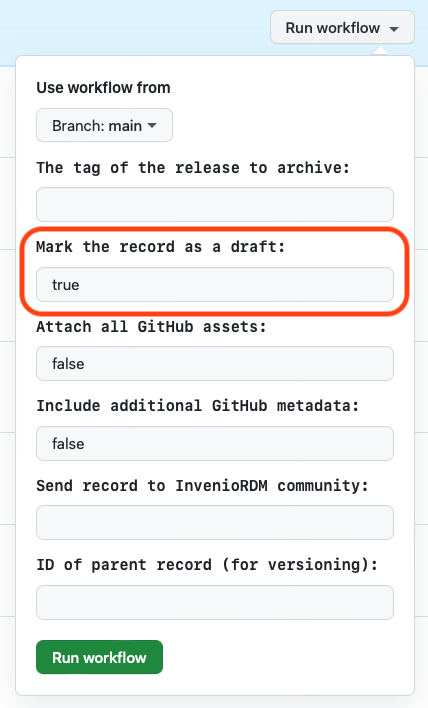
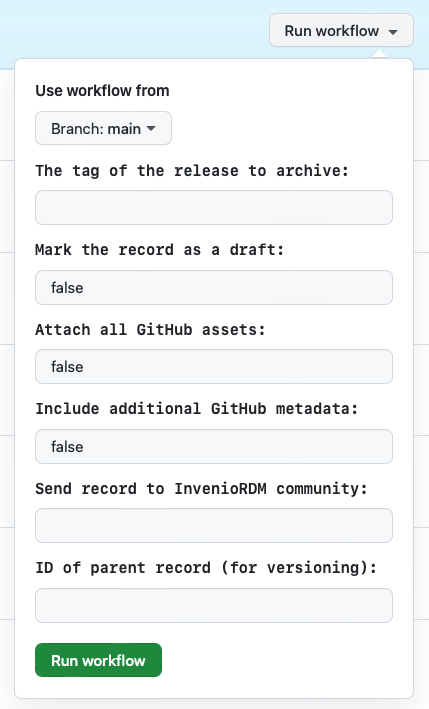
docs: finish the GHA section

Changed region(s): [[0.0, 0.0, 1.0, 0.9944], [0.3645, 0.7768, 0.8808, 0.839], [0.0911, 0.7768, 0.3341, 0.839]]

diff --git a/docs/gha-usage.md b/docs/gha-usage.md
@@ -1,1 +1,91 @@
 # Usage (GitHub Action)
+
+After creating a GitHub Action workflow as described in [the installation instructions](installation.md#iga-as-a-github-action) (making sure to set the value of `INVENIO_SERVER` in the `.yml` file) and storing your InvenioRDM token as [a GitHub "secret" in the repository](quick-start.md#configuring-a-github-action), the workflow should run automatically the next time you make a release. The IGA workflow can also be run manually; in addition, the trigger condition(s) and some IGA options can be set by editing the workflow definition `.yml` file.
+
+## Manual invocation
+
+You can run the IGA GitHub Action workflow manually in two ways: from the web page of your GitHub repository, and using GitHub's `gh` command line tool.
+
+### Manual workflow invocation on GitHub
+
+1. Go to the _Actions_ tab in your repository and click on the name of the workflow in the sidebar on the left<figure><img src="_static/media/github-run-workflow.png" width="70%"></figure>
+2. Click the <kbd>Run workflow</kbd> button shown above in the right-hand side of the blue strip.
+3. A form will appear; in this form, you can set the IGA input parameters, including the tag of the release to send to InvenioRDM, whether to make the release a draft, and more. All these opotions except the first (the release tag) correspond to the [input parameters](#input-parameters) described below. The release tag is normally obtained automatically by virtue of the fact that IGA runs when a new release is made, but when running the workflow manually, you can provide a tag explicitly. If you leave it blank, IGA will use the latest release in the repository.<figure><img src="_static/media/github-workflow-options.png" width="30%"></figure>
+4. Click the green <kbd>Run workflow</kbd> button near the bottom
+5. Refresh the web page and a new line will be shown named after your workflow file<figure><img src="_static/media/github-running-workflow.png" width="90%"></figure>
+6. Click that line to see the IGA workflow progress and results
+
+### Manual workflow invocation using `gh`
+
+The very handy GitHub command-line utility [`gh`](https://cli.github.com) lets you start workflows on GitHub from the comfort of your computer. To use it, in a shell go to your local clone of your repository, then run the folowing command:
+```shell
+gh workflow run
+```
+
+The `gh` command will next ask you to select a workflow to run if you have more than one defined for your repository. If IGA is the only one you have, you merely need to press the return key to select it:
+<figure><img src="_static/media/gh-workflow-run.png" width="90%"></figure>
+
+You will be prompted for values of the options/input parameters (the same as in the form shown when running the action manually on GitHub).
+<figure><img src="_static/media/gh-workflow-run-options.png" width="90%"></figure>
+
+One you hit return, you can monitor the status of the run using the command
+```shell
+gh run list --workflow=iga.yml
+```
+<figure><img src="_static/media/gh-workflow-list.png" width="90%"></figure>
+
+
+## Trigger condition(s)
+
+The trigger condition for automatically running IGA on GitHub is determined by the `.yml` workflow file, specifically in the section with the `on:` heading. The workflow file shown in [the installation instructions](installation.md#iga-as-a-github-action) has an `on:` section that defines two triggers, one for release events on the repository and the other (the one titled `workflow_dispatch`) for manual invocation of the workflow. The relevant section of the file looks like this:
+```yaml
+on:
+  release:
+    types: [published]
+  workflow_dispatch:
+    ...
+```
+
+You can change the trigger condition if necessary, for example to set which branch of your repository is used to trigger the release archiving workflow. Please consult the [GitHub documentation on event triggers](https://docs.github.com/en/actions/using-workflows/triggering-a-workflow#using-events-to-trigger-workflows) for more information about what's possible.
+
+
+## Input parameters
+
+The Github Action for IGA has a number of configuration options that can be set using input parameters. These input parameters can be set in the workflow configuration `.yml` file.
+
+### `INVENIO_SERVER` (default: no value)
+
+This variable holds the address of the InvenioRDM server where records are created by IGA. In the example workflow shown [in the Installation instructions](installation.md#iga-as-a-github-action), the value of `INVENIO_SERVER` is set by writing it in the `.yml` file.
+
+### `INVENIO_TOKEN` (default: no value)
+
+This must be stored as a "secret" in the GitHub repository. It holds your [InvenioRDM personal access token (PAT)](quick-start.md#getting-an-inveniordm-token). 
+
+### `all_assets` (default: false)
+
+By default, IGA attaches to the InvenioRDM record _only_ the ZIP file asset created by GitHub for the release. To make IGA attach all assets associated with the GitHub release, set the `all_assets` option to true.
+
+### `all_metadata` (default: false)
+
+IGA tries to use [`CodeMeta.json`](https://codemeta.github.io) first and [`CITATION.cff`](https://citation-file-format.github.io) second to fill out the fields of the InvenioRDM record. If neither of those files are present, IGA uses values from the GitHub repository instead. You can make it always use all sources of info by setting the option `all_metadata` to `true`. Depending on how complete and up-to-date your `CodeMeta.json` and `CITATION.cff` are, this may or may not make the record more comprehensive and may or may not introduce redundancies or unwanted values.
+
+### `community` (default: none)
+
+To submit your record to a community, use the `community` option and set its value to the name of a community on your InvenioRDM server. Note that submitting a record to a community means that the record will not be finalized and will not be publicly visible when IGA finishes; instead, the record URL that you receive will be for a draft version, pending review by the community moderators.
+
+### `draft` (default: false)
+
+If the `community` option is not used, then by default, IGA will finalize and publish the record. To make it stop short and leave the record as a draft instead, set the option `draft` to `true`. The draft option also takes precedence over the community option: if you use both `draft` and `community`, IGA will stop after creating the draft record and will _not_ submit it to the community.  (You can nevertheless submit the record to a community manually once the draft is created, by visiting the record's web page and using the InvenioRDM interface there.)
+
+### `parent_record` (default: none)
+
+The option `parent_record` can be used to indicate that the record being constructed is a new version of an existing record. This will make IGA use the InvenioRDM API for [record versioning](https://inveniordm.docs.cern.ch/releases/versions/version-v2.0.0/#versioning-support). The newly-created record will be linked to a parent record identified by the value passed to `parent-record`. The value must be either an InvenioRDM record identifier (which is a sequence of alphanumeric characters of the form _XXXXX-XXXXX_, such as `bknz4-bch35`, generated by the InvenioRDM server), or a URL to the landing page of the record in the InvenioRDM server. (Note that such URLs end in the record identifier.)
+
+### `release_tag` (default: latest release)
+
+Normally, the GitHub Action is intended to be triggered by the latest release. When running the workflow manually, it can be useful to be able to specify a particular release tag (for example, when sending older release to the InvenioRDM server). The value of this option should be the tag name; e.g., `v1.2.3`.
+
+
+### `debug` (default: false)
+
+Turning on debugging will add more data into the GitHub Action workflow record. This is useful when debugging problems in IGA. For the GitHub Action workflow, the behavior is slightly different from the command-line version: the normal mode for the GitHub Action is the equivalent of `verbose` mode in the command-line version of IGA, and while `debug` mode adds more info to the output, it will (understandably) not cause IGA to drop into the `pdb` debugger upon errors.
